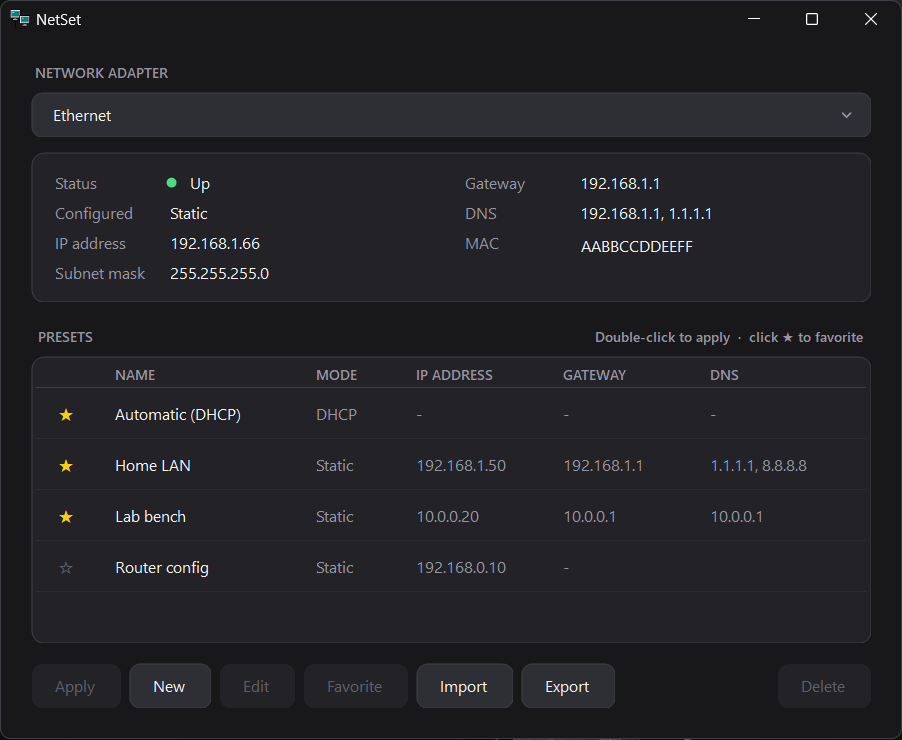
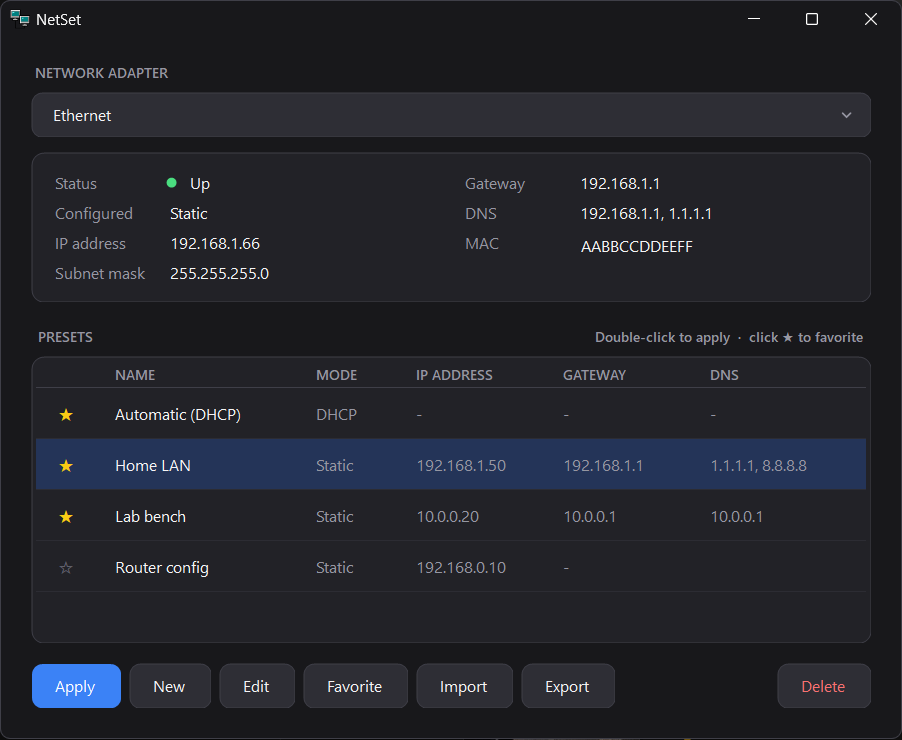
Suggest current adapter settings in new presets, add import/export, update screenshots
New presets show the selected adapter's current settings as gray ghost text
(Tab accepts). Adds preset import/export with merge or replace, a themed
multi-choice dialog, a second README screenshot, and version 1.0.0.

diff --git a/PresetEditor.cs b/PresetEditor.cs
@@ -18,7 +18,7 @@ public class PresetEditor : Form
 
     public Preset Result { get; private set; } = new();
 
-    public PresetEditor(Preset? preset)
+    public PresetEditor(Preset? preset, string? adapter = null)
     {
         var p = preset ?? new Preset { Dhcp = false };
         Theme.Init(this);
@@ -50,8 +50,9 @@ public class PresetEditor : Form
         buttons.Controls.Add(cancel);
 
         var root = new TableLayoutPanel { Dock = DockStyle.Fill, ColumnCount = 1, Padding = new Padding(this.S(24), this.S(20), this.S(24), this.S(20)) };
-        _name.Margin = new Padding(0, 0, 0, this.S(18));
+        _name.Margin = new Padding(0, 0, 0, this.S(12));
         _fav.Margin = new Padding(0, this.S(8), 0, 0);
+
         foreach (var c in new Control[] { nameLabel, _name, _dhcp, _static, _fields, _fav, buttons }) root.Controls.Add(c);
         Controls.Add(root);
 
@@ -61,6 +62,7 @@ public class PresetEditor : Form
         _ip.Text = p.Ip; _mask.Text = p.Mask; _gw.Text = p.Gateway;
         _dns1.Text = p.Dns1; _dns2.Text = p.Dns2;
         _fav.Checked = p.Favorite;
+        if (preset == null && adapter != null) SuggestFromAdapter(adapter);
         _dhcp.CheckedChanged += (_, _) => SyncEnabled();
         SyncEnabled();
 
@@ -74,6 +76,24 @@ public class PresetEditor : Form
         if (keyData == Keys.Enter) { TryAccept(); return true; }
         if (keyData == Keys.Escape) { DialogResult = DialogResult.Cancel; return true; }
         return base.ProcessCmdKey(ref msg, keyData);
+    }
+
+    /// <summary>
+    /// For a new preset, offers the selected adapter's current settings as gray suggestions
+    /// in the empty fields. Tab accepts one; typing replaces it.
+    /// </summary>
+    void SuggestFromAdapter(string adapter)
+    {
+        var cur = NetworkConfig.ReadCurrent(adapter);
+        if (cur == null) return;
+
+        _name.Placeholder = $"{adapter} (current)";
+        _ip.Placeholder = cur.Ip;
+        _mask.Placeholder = cur.Mask;
+        _gw.Placeholder = cur.Gateway;
+        _dns1.Placeholder = cur.Dns1;
+        _dns2.Placeholder = cur.Dns2;
+        _mask.Text = ""; // the default mask would otherwise hide its suggestion
     }
 
     void AddField(string label, ModernTextBox box)

diff --git a/Controls.cs b/Controls.cs
@@ -246,15 +246,57 @@ public class ModernList : ListView
     }
 }
 
+/// <summary>
+/// TextBox that shows a gray suggestion while empty (native cue banner); Tab in an empty box accepts it.
+/// </summary>
+public class GhostTextBox : TextBox
+{
+    const int EM_SETCUEBANNER = 0x1501;
+    [System.Runtime.InteropServices.DllImport("user32.dll", CharSet = System.Runtime.InteropServices.CharSet.Unicode)]
+    static extern IntPtr SendMessage(IntPtr hWnd, int msg, IntPtr wParam, string lParam);
+
+    string _ghost = "";
+
+    public string Ghost
+    {
+        get => _ghost;
+        set { _ghost = value ?? ""; Apply(); }
+    }
+
+    /// <summary>Suggestions are only shown (and accepted) while the box is editable.</summary>
+    public void Apply()
+    {
+        if (!IsHandleCreated) return;
+        SendMessage(Handle, EM_SETCUEBANNER, (IntPtr)1, ReadOnly ? "" : _ghost); // 1 = keep showing while focused
+    }
+
+    protected override void OnHandleCreated(EventArgs e) { base.OnHandleCreated(e); Apply(); }
+    protected override void OnReadOnlyChanged(EventArgs e) { base.OnReadOnlyChanged(e); Apply(); }
+
+    protected override bool ProcessDialogKey(Keys keyData)
+    {
+        if (keyData == Keys.Tab && Text.Length == 0 && _ghost.Length > 0 && !ReadOnly)
+        {
+            Text = _ghost;
+            SelectionStart = Text.Length;
+            return true; // consumed: the next Tab moves on as usual
+        }
+        return base.ProcessDialogKey(keyData);
+    }
+}
+
 public class ModernTextBox : Panel
 {
-    readonly TextBox _tb = new()
+    readonly GhostTextBox _tb = new()
     {
         BorderStyle = BorderStyle.None,
         BackColor = Theme.Surface2,
         ForeColor = Theme.Text,
         Font = Theme.Ui,
     };
+
+    /// <summary>Gray suggestion shown while empty; press Tab to accept it.</summary>
+    public string Placeholder { get => _tb.Ghost; set => _tb.Ghost = value; }
 
     public ModernTextBox()
     {

diff --git a/NetworkConfig.cs b/NetworkConfig.cs
@@ -37,6 +37,30 @@ public static class NetworkConfig
         };
     }
 
+    /// <summary>Reads an adapter's current IPv4 settings into a preset (Name left blank).</summary>
+    public static Preset? ReadCurrent(string? adapterName)
+    {
+        var nic = NetworkInterface.GetAllNetworkInterfaces().FirstOrDefault(n => n.Name == adapterName);
+        if (nic == null) return null;
+
+        var props = nic.GetIPProperties();
+        var addr = props.UnicastAddresses.FirstOrDefault(a => a.Address.AddressFamily == AddressFamily.InterNetwork);
+        var gw = props.GatewayAddresses.FirstOrDefault(g => g.Address.AddressFamily == AddressFamily.InterNetwork);
+        var dns = props.DnsAddresses.Where(d => d.AddressFamily == AddressFamily.InterNetwork).Select(d => d.ToString()).ToList();
+        bool dhcp = false;
+        try { dhcp = props.GetIPv4Properties().IsDhcpEnabled; } catch { }
+
+        return new Preset
+        {
+            Dhcp = dhcp,
+            Ip = addr?.Address.ToString() ?? "",
+            Mask = addr?.IPv4Mask?.ToString() ?? "255.255.255.0",
+            Gateway = gw?.Address.ToString() ?? "",
+            Dns1 = dns.ElementAtOrDefault(0) ?? "",
+            Dns2 = dns.ElementAtOrDefault(1) ?? "",
+        };
+    }
+
     public static async Task<(bool ok, string output)> ApplyAsync(string adapter, Preset p)
     {
         var steps = new List<string[]>();

diff --git a/MainForm.cs b/MainForm.cs
@@ -262,7 +262,7 @@ public class MainForm : Form
 
     void EditPreset(Preset? existing)
     {
-        using var dlg = new PresetEditor(existing?.Clone());
+        using var dlg = new PresetEditor(existing?.Clone(), _adapter);
         if (dlg.ShowDialog(this) != DialogResult.OK) return;
 
         if (existing == null) _app.Settings.Presets.Add(dlg.Result);

diff --git a/README.md b/README.md
@@ -4,10 +4,13 @@ A small Windows tray utility for switching a network adapter between saved IP pr
 
 ![NetSet main window](docs/screenshot.png)
 
+![New preset dialog with suggestions from the current adapter](docs/screenshot-editor.png)
+
 ## Features
 
 - Pick any network adapter and see its live status, IP, mask, gateway, DNS and MAC.
 - Save presets: DHCP, or static IP with mask, gateway and up to two DNS servers.
+- New presets start with the selected adapter's current settings as gray suggestions: press **Tab** in an empty field to accept one, or just type to replace it.
 - Mark presets as **favorites** (click the ★) and they appear when you right-click the tray icon, so switching is two clicks.
 - Import / export presets as JSON, with a merge-or-replace prompt on import.
 - **Run at startup** option in the tray menu.
